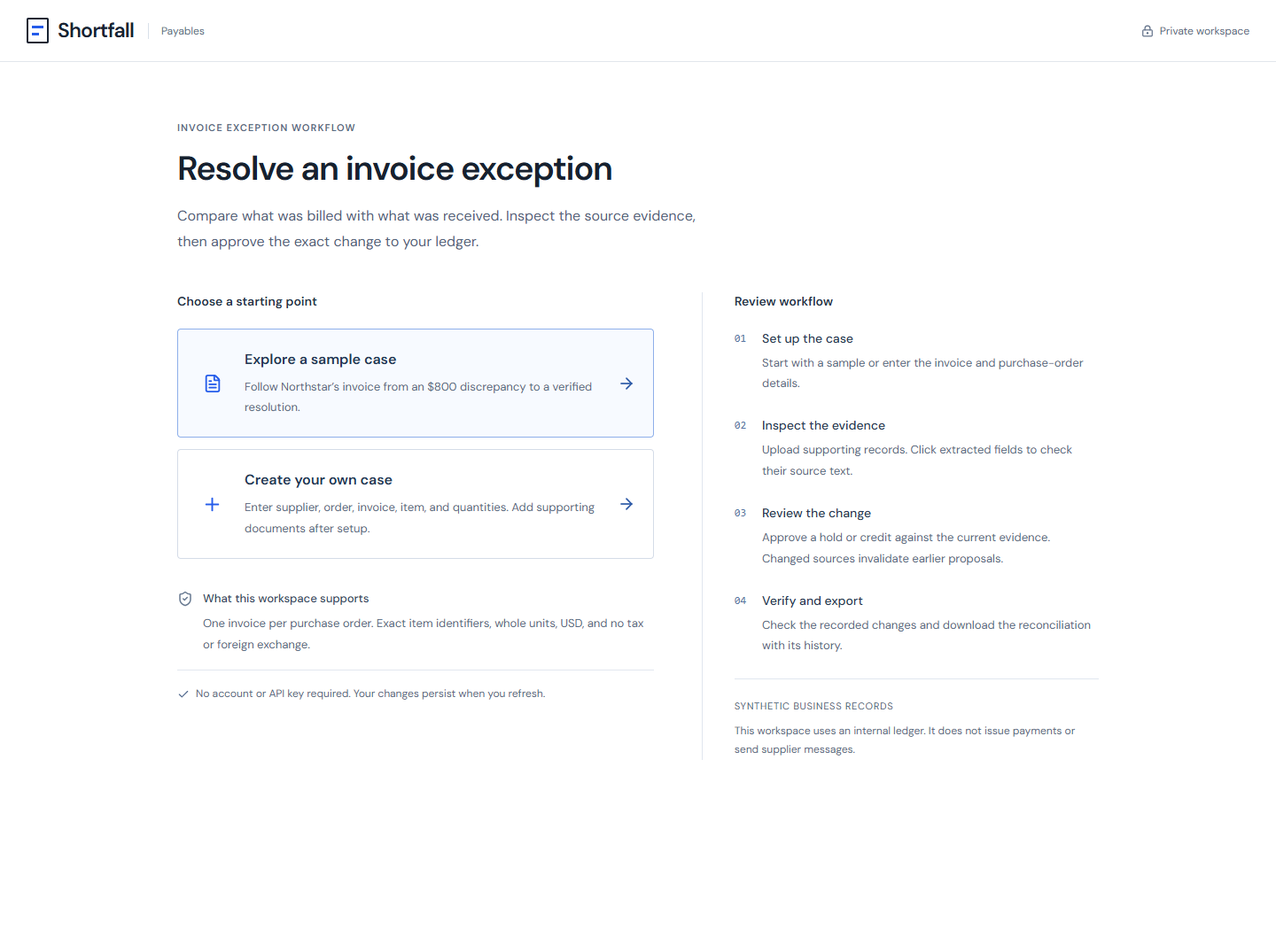
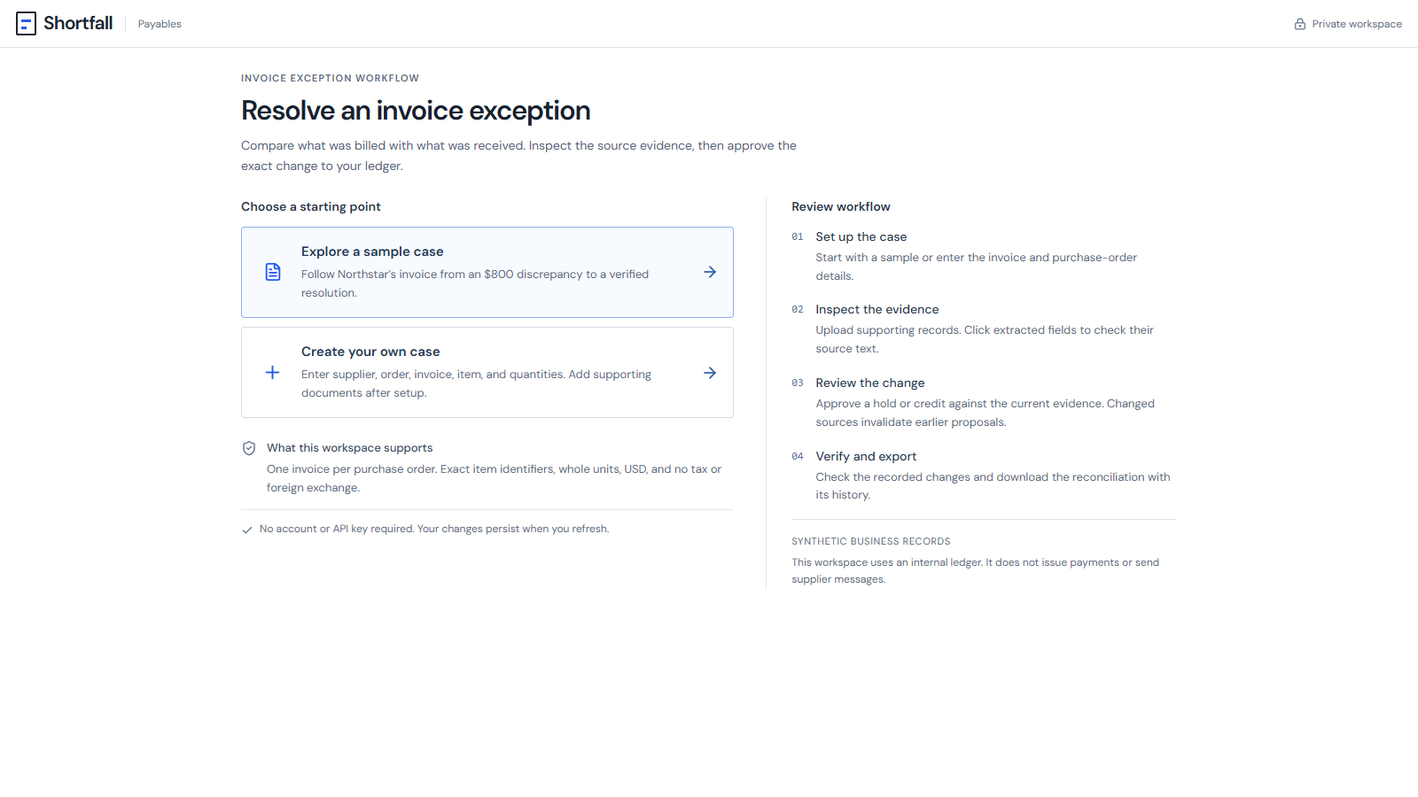
Refresh release evidence and final demonstration

diff --git a/README.md b/README.md
@@ -22,7 +22,7 @@ The first release supports one invoice per supplier/purchase-order pair, one ite
 
 Open the application in a fresh browser and choose **Explore a sample case**. The guided case explains each next action. Choose **Create your own case** to enter an independent invoice; no account, API key, or installation is required. A new anonymous session begins only after one of those explicit choices. **Home** returns to entry without changing the current workspace. Browser Back and Forward follow Home, Exceptions, and Activity through `#home`, `#exceptions`, and `#activity`. [Judge quickstart](docs/submission/judge-quickstart.md)
 
-**End session** revokes the server token and expires the browser cookie. Export records first: there is no account sign-in for recovering that session. Approved queued work and spending records remain; reload stays at Home, and choosing Explore or Create again starts a fresh workspace. The Home/End session update passed local verification on 5 November; public deployment is pending.
+**End session** revokes the server token and expires the browser cookie. Export records first: there is no account sign-in for recovering that session. Approved queued work and spending records remain; reload stays at Home, and choosing Explore or Create again starts a fresh workspace. The Home/End session and bounded-layout update was deployed as **b236569 on 5 November 2026** and passed public verification.
 
 Northstar Components invoices 120 units at $40: **$4,800**. The first receipt confirms 100 units, leaving an **$800** discrepancy. A later receipt adds 10 units. Shortfall rejects the previous $800 approval and proposes **$400** instead.
 
@@ -99,13 +99,13 @@ npm run test:e2e
 
 Generate route types before typechecking a clean checkout. The database test needs running PostgreSQL. Browser tests need the application and worker; Microsoft Edge is the default browser, or set PLAYWRIGHT_BROWSER_CHANNEL=chromium after installing Playwright Chromium. TEST_BASE_URL can target another running deployment. Regular tests do not call the model; node scripts/smoke-inference.mjs deliberately uploads two samples and consumes API allowance.
 
-The [CI workflow](.github/workflows/ci.yml) runs isolated PostgreSQL tests, route generation, formatting, typechecking, a production build, and Chromium workflows with inference disabled. The [latest hosted run passed for eda293e](https://github.com/Huzyefahwasim/vultr-hackathon/actions/runs/41770157593): **all 51 tests, including database integration, and five API/browser workflows**. The repository is public.
+The [CI workflow](.github/workflows/ci.yml) runs isolated PostgreSQL tests, route generation, formatting, typechecking, a production build, and Chromium workflows with inference disabled. The [hosted run for deployed release b236569](https://github.com/Huzyefahwasim/vultr-hackathon/actions/runs/41974680837) passed **all 53 tests, including configured database integration, and 11 API/browser workflows**. The repository is public.
 
-The current regular suite contains **53 tests: 52 passed and one database test skipped** without database configuration. The database integration test **passed separately**, including competing reservations at the global/workspace ceilings. The earlier public suite passed **three API workflow tests and two browser tests in 18.3 seconds**. Additional public checks verified independent-case entry, persistence, isolation, and desktop/mobile presentation. Production build, restart/persistence, and isolated backup restoration passed. Live Opus extraction completed the $4,400 reconciliation and rejected the stale approval; an additional deployed CSV upload verified nine source spans and the expected $22.50 hold. [Workflow verification](docs/evaluation.md)
+The latest public targeted run passed **four tests in 55.7 seconds**: all views/dialogs at 1280 × 560 and 390 × 700; Home/history, skip link, cross-tab logout, old-token rejection and explicit re-entry; and the full receipt/credit resolution and export. This is a deployed subset of the 11-workflow CI suite. Production build, restart/persistence, and isolated backup restoration also passed. Earlier live Opus checks completed the $4,400 reconciliation and rejected the stale approval; a deployed CSV upload verified nine source spans and the expected $22.50 hold. [Workflow verification](docs/evaluation.md)
 
-Six new browser regressions passed locally for navigation and session ending. They cover 1280 × 560, 1366 × 650, 1440 × 760, and 390 × 700; pages, dialogs, keyboard access, internal source scrolling, Home/history preservation, and server-side session revocation. Long records scroll inside bounded panels while primary actions remain reachable. These new checks have not yet run against the public deployment.
+The navigation/layout regressions cover 1280 × 560, 1366 × 650, 1440 × 760, and 390 × 700; pages, dialogs, keyboard access, internal source scrolling, Home/history preservation, and session revocation. Additional public visual checks passed at all four sizes. At 1280 × 560, Home and all nine new-case fields fit without form scrolling. Long records scroll inside bounded panels while primary actions remain reachable.
 
-The [published demonstration](https://shortfall.95.179.254.189.sslip.io/submission/) runs **4:12** and includes synthesized narration, captions, real UI actions, and the measured evaluation. The [MP4](https://shortfall.95.179.254.189.sslip.io/submission/demo.mp4) is 15.9 MB at 1600 × 900; browser playback, all eight seek points, and caption readability passed review. The [cover](https://shortfall.95.179.254.189.sslip.io/submission/cover.png) and [captions](https://shortfall.95.179.254.189.sslip.io/submission/captions.vtt) are public. See [media details and voice credits](docs/submission/media-notes.md) and [slide content and speaker notes](docs/submission/slide-content.md). The reusable recorder is scripts/record-demo.mjs; scripts/smoke-recovery.mjs supports prepare and verify phases for the restart check.
+The [published demonstration](https://shortfall.95.179.254.189.sslip.io/submission/) runs **4:26** and shows the updated layout with synthesized narration, captions, real UI actions, and the measured evaluation. The [MP4](https://shortfall.95.179.254.189.sslip.io/submission/demo.mp4) is 16.2 MB at 1600 × 900; browser playback, all eight seek points, and caption readability passed review. The [cover](https://shortfall.95.179.254.189.sslip.io/submission/cover.png) and [captions](https://shortfall.95.179.254.189.sslip.io/submission/captions.vtt) are public. See [media details and voice credits](docs/submission/media-notes.md) and [slide content and speaker notes](docs/submission/slide-content.md). The reusable recorder is scripts/record-demo.mjs; scripts/smoke-recovery.mjs supports prepare and verify phases for the restart check.
 
 ## Document evaluation
 

diff --git a/docs/demo.md b/docs/demo.md
@@ -2,9 +2,9 @@
 
 Open [Shortfall](https://shortfall.95.179.254.189.sslip.io) in a fresh private browser window. Choose **Explore a sample case**; **Home** returns to entry while preserving the workspace. **Create your own case** opens explicit business-field intake. No account, API key, environment file, or installation is required. A new anonymous session starts only after an explicit Explore or Create choice.
 
-The Home/End session update passed local verification on 5 November and awaits public deployment. Browser Back and Forward follow Home, Exceptions, and Activity without replacing the case. Export needed records before confirming **End session**: it revokes the server token and expires the cookie, while approved queued work and spending records remain. Reload then stays at Home until explicit re-entry.
+The Home/End session update was deployed as b236569 on 5 November and passed public verification. Browser Back and Forward follow Home, Exceptions, and Activity without replacing the case. Export needed records before confirming **End session**: it revokes the server token and expires the cookie, while approved queued work and spending records remain. Reload then stays at Home until explicit re-entry.
 
-The public Vultr application, three API checks, two browser checks, and live receipt/credit extraction have passed. The [published presentation](https://shortfall.95.179.254.189.sslip.io/submission/) uses real application actions, synthesized narration, and repository evidence. It runs **252.24 seconds (4:12)** at 1600 × 900, 25 fps, and is **15,884,185 bytes**. Technical encoding, delivery, browser playback, all eight seek points, and readable captions are verified.
+The public Vultr application passed the targeted navigation, layout, session, and receipt/credit workflow checks. Separate live document extraction also passed. The [published presentation](https://shortfall.95.179.254.189.sslip.io/submission/) shows the updated layout with real application actions, synthesized narration, and repository evidence. It runs **265.88 seconds (4:26)** at 1600 × 900, 25 fps, and is **16,202,676 bytes**. Technical encoding, delivery, browser playback, all eight seek points, and readable captions are verified.
 
 - [MP4](https://shortfall.95.179.254.189.sslip.io/submission/demo.mp4), [cover](https://shortfall.95.179.254.189.sslip.io/submission/cover.png), and [captions](https://shortfall.95.179.254.189.sslip.io/submission/captions.vtt)
 - [Narration](submission/narration.txt), [timing cues](submission/narration-timing.json), and [media credits](submission/media-notes.md)
@@ -12,7 +12,7 @@ The public Vultr application, three API checks, two browser checks, and live rec
 
 ## Run of show
 
-These are scene planning targets, not exact chapter markers or measurements of application response time. The final presentation runs 4:12. Recorded actions retain their original speed. Only 4.88 seconds of idle capture-close time were removed; narration was normalized separately.
+These are scene planning targets, not exact chapter markers or measurements of application response time. The final presentation runs 4:26. Recorded actions retain their original speed. Only 4.72 seconds of idle capture-close time were removed; narration was normalized separately.
 
 | Time | Action | Visible evidence |
 | --- | --- | --- |
@@ -45,9 +45,9 @@ The frozen 24-document baseline accepted 9/12 supported documents exactly and se
 
 Across those separate sets: **28 unique synthetic documents, 31 settled calls, $0.474656**, with no uncertain usage. These are project-authored records with no independent reviewer. Keep the baseline, regression, and fresh holdout separate; do not present a combined accuracy percentage. [Full evaluation](evaluation-results.md)
 
-The current regular suite contains 53 tests: 52 passed and one unconfigured database test skipped; the database integration test passed separately. The earlier public suite passed three API and two browser tests in 18.3 seconds. Additional public checks covered independent-case entry, persistence, visitor isolation, and desktop/mobile presentation. An additional deployed CSV upload verified nine exact evidence spans and the expected $22.50 hold. Restart/container replacement, isolated database restoration, and concurrent spending limits were exercised. [Workflow verification](evaluation.md)
+The [b236569 hosted CI run](https://github.com/Huzyefahwasim/vultr-hackathon/actions/runs/41974680837) passed all 53 tests with configured database integration and 11 API/browser workflows. Four targeted public tests passed in 55.7 seconds: 1280 × 560 and 390 × 700 views/dialogs, navigation/session lifecycle, and complete UI receipt/credit resolution and export. Earlier live CSV extraction verified nine exact evidence spans and the expected $22.50 hold. Restart/container replacement, isolated database restoration, and concurrent spending limits were exercised. [Workflow verification](evaluation.md)
 
-Six new navigation/layout tests passed locally, covering 1280 × 560, 1366 × 650, 1440 × 760, and 390 × 700 viewports. They verify pages and dialogs, keyboard-reachable actions, internal panel scrolling, Home and browser history, and session revocation. Long information remains accessible by scrolling within its panel while primary actions stay reachable. Public verification of this update remains pending.
+Six navigation/layout regressions cover 1280 × 560, 1366 × 650, 1440 × 760, and 390 × 700. Additional public visual checks passed at all four sizes; Home and all nine new-case fields fit at 1280 × 560. The navigation lifecycle verifies Home, Back/Forward, the skip link, cross-tab logout, rejection of the old token, and explicit re-entry. Long information remains accessible by scrolling within its panel while primary actions stay reachable.
 
 The application persists internal ledger changes and follow-up tasks. It does not make payments, update an ERP, or contact suppliers. The sample demonstrates a $400 discrepancy resolved, not recovered cash or measured customer savings.
 

diff --git a/docs/delivery-plan.md b/docs/delivery-plan.md
@@ -1,8 +1,8 @@
 # Delivery and submission plan
 
-Updated 4 November 2026. Times use Asia/Karachi (PKT, UTC+5).
+Updated 5 November 2026. Times use Asia/Karachi (PKT, UTC+5).
 
-The application, custom PostgreSQL worker, and live Opus receipt/credit workflow are implemented. Public deployment, five API/browser checks, live inference, restart/persistence, and isolated restoration passed. Document evaluation is complete, with its baseline and later CSV checks reported separately. The narrated MP4, cover, and captions are public; playback and readability review passed. Presentation PDF, enrollment/deadline confirmation, and the event form remain outstanding.
+Release b236569 is deployed with Home, browser history, End session, and bounded panel layouts. Hosted CI passed 53 tests and 11 API/browser workflows; four targeted public tests and four-viewport visual review passed. Earlier live inference, restart/persistence, and isolated restoration checks remain recorded. Document evaluation is complete, with its baseline and later CSV checks separate. The published MP4, cover, and captions passed playback/readability review. Presentation PDF, enrollment/deadline confirmation, and the event form remain outstanding.
 
 ## Current position
 
@@ -12,20 +12,20 @@ The application, custom PostgreSQL worker, and live Opus receipt/credit workflow
 | Custom durable jobs, execution receipts, extraction cache, budget reservations | Implemented |
 | Live Opus receipt/credit extraction | Successful local and public smoke runs |
 | Stale approval, $400 hold, approved credit/release, $4,400 reconciliation | Successful local and public smoke runs |
-| Deterministic and database tests | Regular suite: 50 passed, one DB test skipped without configuration; DB integration passed separately; typecheck and formatting passed |
-| Hosted CI | eda293e passed all 51 tests including database integration, five API/browser workflows, formatting, typecheck, and production build |
-| Local and public API/browser workflow tests | Latest public suite: three API and two browser tests passed in 18.3 seconds |
-| Additional public usability checks | Fresh own-case entry, Guide, persistence, isolation, and desktop/mobile presentation verified separately |
+| Deterministic and database tests | All 53 passed in configured CI; local run without DB configuration had 52 passes and one skip |
+| Hosted CI | b236569 passed 53 tests, 11 API/browser workflows, formatting, typecheck, and production build |
+| Targeted public release tests | Four passed in 55.7 seconds: two viewport/dialog matrices, navigation/session lifecycle, and complete receipt/credit resolution/export |
+| Additional public visual checks | Four viewports passed, including Home and all nine new-case fields fitting at 1280 × 560 |
 | Additional deployed CSV smoke | Live Opus extraction verified nine exact evidence spans and the expected $22.50 hold |
 | Database dump and isolated restore | Nine tables, 34 cases, seven budget reservations restored; application database untouched |
-| Public Vultr deployment | HTTPS, database/worker health, production build, and five API/browser checks passed |
+| Public Vultr deployment | b236569 deployed 5 November; HTTPS, health, build, and targeted public checks passed |
 | Restart/container replacement | Queued $800 hold and session persisted; exactly one execution and task after replay |
 | Concurrent budget admission | One of two racing reservations accepted at each global/workspace boundary |
 | Document evaluation | 28 unique synthetic documents, 31 settled calls, $0.474656; three evaluation sets reported separately |
-| Video and narration | Published MP4: 252.24 seconds, 1600 × 900 at 25 fps, 15,884,185 bytes; browser playback, seek points, and caption readability verified |
+| Video and narration | Published MP4: 265.88 seconds, 1600 × 900 at 25 fps, 16,202,676 bytes; updated UI, browser playback, seek points, and caption readability verified |
 | Slide presentation | Slide content and speaker notes available; presentation PDF still to be exported and supplied |
 | Cover and final public asset links | [Presentation page](https://shortfall.95.179.254.189.sslip.io/submission/), MP4, cover, and captions published; technical metadata verified |
-| Repository visibility | Public access verified; [hosted CI passed](https://github.com/Huzyefahwasim/vultr-hackathon/actions/runs/41770157593) |
+| Repository visibility | Public access verified; [b236569 hosted CI passed](https://github.com/Huzyefahwasim/vultr-hackathon/actions/runs/41974680837) |
 | Event form | Final fields, assets, and LabLab submission still required |
 
 Public demo: [shortfall.95.179.254.189.sslip.io](https://shortfall.95.179.254.189.sslip.io). Both manual-entry checks and live extraction passed on the deployed web/worker. [Workflow verification](evaluation.md) · [Document evaluation](evaluation-results.md)
@@ -123,7 +123,7 @@ The [repository](https://github.com/Huzyefahwasim/vultr-hackathon) is public and
 - [ ] Export the presentation as PDF from the [slide content and speaker notes](submission/slide-content.md) and attach it to the event form.
 - [ ] Enter title, summary, description, Challenge 02, technology tags, and participation mode.
 - [ ] Check the actual form's limits; standard guidance uses 5–50 title characters, 50–255 summary characters, and 600–2,000 description characters.
-- [x] Keep the MP4 under 300 MB: published duration 4:12, size approximately 15.9 MB.
+- [x] Keep the MP4 under 300 MB: published duration 4:26, size approximately 16.2 MB.
 - [x] Verify public repository access, setup commands, MIT license, and README Vultr explanation.
 - [x] State the input boundary, internal ledger scope, and measured evaluation limits.
 - [ ] Submit through LabLab and confirm the dashboard records the entry.

diff --git a/docs/evaluation.md b/docs/evaluation.md
@@ -1,18 +1,18 @@
 # Evaluation and release checks
 
-Results snapshot: 4 November 2026. These results cover local checks and the public Vultr deployment. The live model workflow passed both locally and through the deployed web/worker. Synthetic fixtures establish specific behavior; they do not establish customer value or general extraction accuracy.
+UI release snapshot: 5 November 2026, deployed revision b236569. These results cover local checks, hosted CI, and the public Vultr deployment. Earlier live extraction and frozen document-evaluation results retain their original scope. Synthetic fixtures establish specific behavior; they do not establish customer value or general extraction accuracy.
 
 ## Observed checks
 
 | Check | Observed result | Scope |
 | --- | --- | --- |
 | TypeScript and formatting | Passed | Whole repository typecheck and formatting check |
-| Hosted CI for eda293e | Passed | All 51 tests including database integration, five API/browser workflows, formatting, typechecking, and production build |
-| Regular test suite | 50 passed; one database test skipped without configuration | Domain, extraction, budget arithmetic, origin checks, PDF parsing, four PCM alignment tests, and related deterministic checks |
+| Hosted CI for b236569 | Passed | All 53 tests including configured database integration, 11 API/browser workflows, formatting, typechecking, and production build |
+| Regular test suite | 52 passed locally; one database test skipped without configuration; all 53 passed in configured CI | Domain, extraction, budget arithmetic, origin checks, PDF parsing, PCM alignment, session handling, and related deterministic checks |
 | Database integration | Passed separately | Ownership, competing approvals/execution, source serialization, reset accounting, retries, expiry/session limits, and concurrent global/workspace budget admission |
-| API workflow tests | Three passed locally and on the public deployment | Stale approval, credit reconciliation, duplicate execution, cross-session/origin checks, and a new independent case |
-| Browser tests | Two passed locally and on the public deployment | Manual receipt/credit flow, export, refresh persistence, and mobile viewport behavior |
-| Additional public usability checks | Passed separately from the five-test suite | Fresh own-case entry, Guide, persistence, visitor isolation, and desktop/mobile presentation |
+| API/browser suite | All 11 passed in hosted CI | Three API workflows, two original UI workflows, and six navigation/layout regressions |
+| Targeted public release tests | Four passed in 55.7 seconds | All views/dialogs at 1280 × 560 and 390 × 700; Home/history, skip link, cross-tab logout, old-token 401 and explicit re-entry; full UI receipt/credit resolution and export |
+| Additional public visual checks | Passed separately at four viewports | 1280 × 560, 1366 × 650, 1440 × 760, and 390 × 700; Home fits and all nine new-case fields fit without form scrolling at 1280 × 560 |
 | Live Opus workflow | Passed locally and on the public deployment | Sample receipt and credit uploads, validated evidence, stale approval rejection, worker execution, and final reconciliation |
 | Additional deployed CSV smoke | Passed | Live Opus upload, nine exact evidence spans, and expected 2,250-cent hold |
 | Production build and deployment | Passed | Linux production build, public HTTPS, fresh session, database health, and worker heartbeat |
@@ -20,9 +20,9 @@ Results snapshot: 4 November 2026. These results cover local checks and the publ
 | Restart/container replacement | Passed publicly | Queued hold and session persisted; replay produced one execution, one task, and 80,000 cents held |
 | Backup restoration | Passed in an isolated temporary database | Nine tables, 34 cases, and seven budget reservations restored; temporary database removed and application database unchanged |
 | Recorded public workflow | Passed | 54 recording cues, 15 exact live source quotes, and correct reconciled ledger/export |
-| Published presentation | Delivery, technical metadata, playback, seek points, and readability verified | MP4: 252.24 seconds, 1600 × 900, 25 fps, H.264/AAC, 15,884,185 bytes; public cover and 54 VTT cues; no JavaScript/media errors |
+| Published presentation | Delivery, technical metadata, playback, seek points, and readability verified | MP4: 265.88 seconds, 1600 × 900, 25 fps, H.264/AAC, 16,202,676 bytes; updated UI, public cover and 54 VTT cues; no JavaScript/media errors |
 
-The current local regular suite and separate database run together exercised 51 tests. The latest deployed API/browser run passed all five tests in 18.3 seconds. The [hosted CI run for eda293e](https://github.com/Huzyefahwasim/vultr-hackathon/actions/runs/41770157593) then passed all 51 tests, including the configured database integration test, followed by five API/browser workflows, formatting, typechecking, and a production build. Browser tests use manual entry and do not claim live inference coverage. The separate live smoke calls the provider.
+The [hosted CI run for b236569](https://github.com/Huzyefahwasim/vultr-hackathon/actions/runs/41974680837) passed all 53 tests, including configured database integration, and all 11 API/browser workflows. Four targeted tests were then run against the public release and passed in 55.7 seconds. The six navigation/layout regressions verify internal scrolling and reachable actions in bounded panels. Browser workflows use manual entry; separate live smoke runs call the provider.
 
 ## Live extraction snapshot
 

diff --git a/docs/submission/media-notes.md b/docs/submission/media-notes.md
@@ -18,7 +18,7 @@ The narration does not imply customer endorsement or independent validation. Rev
 
 The video shows actual source uploads, quote inspection, a rejected obsolete approval, an approved internal hold, and approved supplier-credit reconciliation. The evaluation report distinguishes the frozen baseline from a targeted CSV regression and a fresh CSV holdout. The corpus and expected labels are project-authored; no customer corpus or independent reviewer was used. [Evaluation](../evaluation-results.md)
 
-The recorded workflow passed 54 cue checks, verified 15 exact live source quotes, and matched the expected reconciled ledger and export. Action footage retains its original speed. Narration was normalized separately; the only removed footage was 4.88 seconds of idle capture-close time. Presentation timing is not a latency benchmark.
+The recorded workflow passed 54 cue checks, verified 15 exact live source quotes, and matched the expected reconciled ledger and export. The recording shows the deployed Home, End session, and bounded-panel layout. Action footage retains its original speed. Narration was normalized separately; the only removed footage was 4.72 seconds of idle capture-close time. Presentation timing is not a latency benchmark.
 
 ## Asset status
 
@@ -33,17 +33,17 @@ The recorded workflow passed 54 cue checks, verified 15 exact live source quotes
 
 ## Published MP4 metadata
 
-Verified 4 November 2026:
+Verified 5 November 2026:
 
 | Property | Value |
 | --- | --- |
-| Duration | 252.24 seconds, approximately 4:12 |
+| Duration | 265.88 seconds, approximately 4:26 |
 | Dimensions and frame rate | 1600 × 900, 25 fps |
 | Video codec | H.264 |
 | Audio | AAC, 48 kHz, mono |
-| File size | 15,884,185 bytes, approximately 15.9 MB |
-| Audio level analysis | Mean −17.4 dB; maximum −1.2 dB |
[1 lines of base64/hex data omitted]
+| File size | 16,202,676 bytes, approximately 16.2 MB |
+| Audio level analysis | Mean −17.7 dBFS; maximum −1.3 dBFS; integrated −16.45 LUFS |
[1 lines of base64/hex data omitted]
 
 The file is below the generic 300 MB submission limit and recommended five-minute duration. Browser review confirmed successful page/MP4/VTT delivery, advancing playback, all eight seek points, 54 caption cues, and no JavaScript or media errors. Inspected frames showed readable captions, the $800 obsolete and $400 current proposal amounts, $4,400 net invoice, ten open PO units, and the closing credit.
 

diff --git a/docs/submission/judge-quickstart.md b/docs/submission/judge-quickstart.md
@@ -2,7 +2,7 @@
 
 Open [Shortfall](https://shortfall.95.179.254.189.sslip.io) in a fresh private/incognito window. You do not need an account, API key, environment file, or local installation. Choose **Explore a sample case** or **Create your own case** to start a private anonymous workspace with a seven-day session. Opening the entry page alone does not create a session. Keeping the same browser session preserves access; a separate private session can start a separate workspace.
 
-The Home/End session behavior below passed local verification on 5 November. Its public deployment is pending.
+The Home/End session and bounded-layout update was deployed as b236569 on 5 November 2026 and passed public verification.
 
 Use synthetic records. The application records real changes in its internal demonstration ledger; it does not send payments or update an ERP.
 
@@ -59,7 +59,7 @@ To leave the anonymous workspace, choose **End session** and confirm **End sessi
 - Supply conflicting identifiers or an unsupported source. The case stays in review.
 - Reset affects the current workspace's cases; it does not reset model-spend accounting.
 
-The navigation/layout regression checks passed locally at 1280 × 560, 1366 × 650, 1440 × 760, and 390 × 700. They verify bounded page layout, internal scrolling, reachable dialog actions, keyboard access, history, and session ending. These new regression checks are separate from the earlier public workflow tests.
+The navigation/layout regressions passed in CI across 1280 × 560, 1366 × 650, 1440 × 760, and 390 × 700. Targeted public tests covered all views/dialogs at 1280 × 560 and 390 × 700, Home/history, the skip link, cross-tab logout, rejection of the old token, explicit re-entry, and the complete receipt/credit workflow. Separate public visual checks passed at all four sizes; Home and all nine new-case fields fit at 1280 × 560. Long records scroll within bounded panels.
 
 If the file itself needs correction, upload a corrected file using the same document type and reference. This supersedes the current source while preserving its history. **Retry extraction** processes the same source again; it does not repair missing fields. A pending or unverified current document blocks a new proposal.
 
